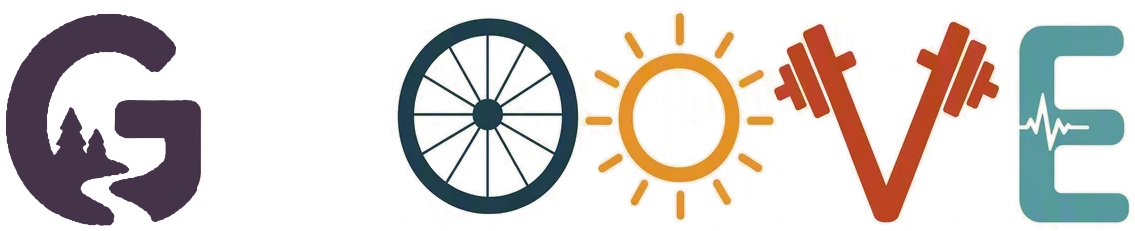
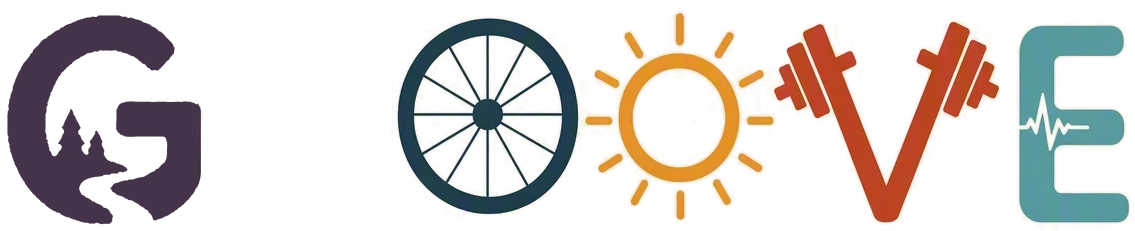
Thinner, crisper G; smooth shoulder on the running man (no bumps by the neck)
Claude-Session: https://claude.ai/code/session_01W6PERwBvGY6kxnwqFJiESo

diff --git a/scripts/crisp-logo-g.py b/scripts/crisp-logo-g.py
@@ -2,7 +2,7 @@
 wordmark-still.png). The original G had soft, fuzzy edges next to the crisp
 sun, wheel and V. The G is one flat color, so its edge is rebuilt: the
 edge is upscaled, smoothed, snapped hard, and averaged back down, which gives a clean
-one-pixel anti-aliased outline. Safe to run more than once. Needs pillow, numpy and
+one-pixel anti-aliased outline. Run it on the original artwork (git history has it), not on an already processed file. Needs pillow, numpy and
 scipy. Run from the repo root, then run scripts/make-dark-logo.py:
     python3 scripts/crisp-logo-g.py
 """
@@ -12,23 +12,31 @@ from scipy import ndimage
 
 G_COLOR = np.array([68, 51, 73], dtype=float)
 G_RIGHT = 197     # the G touches the wheel at x~200; leave the last few columns alone
+CONTEXT = 8       # extra columns read (not changed) so the edge there stays continuous
 UP = 4
+THIN = 1.6        # shave this many pixels off the G's stroke (everywhere), so it reads as crisp as the other letters
 
 def crisp(path):
+    """Run on the ORIGINAL artwork (not on an already processed file)."""
     im = Image.open(path).convert('RGBA')
     a = np.array(im).astype(float)
-    region = a[:, :G_RIGHT]
+    cols = G_RIGHT + CONTEXT
+    region = a[:, :cols]
     alpha = Image.fromarray(region[..., 3].astype(np.uint8))
     big = np.array(alpha.resize((alpha.width * UP, alpha.height * UP), Image.BICUBIC)).astype(float) / 255.0
     big = ndimage.gaussian_filter(big, 3.0)                              # smooth the noisy outline first
-    snapped = np.clip((big - 0.5) * 7 + 0.5, 0, 1)                      # then a hard, clean edge
-    small = np.array(Image.fromarray((snapped * 255).astype(np.uint8)).resize(alpha.size, Image.BOX)).astype(float)
+    solid = big > 0.5
+    # shave the stroke: erode by THIN pixels (in original pixel units), then re-smooth for a clean edge
+    dist = ndimage.distance_transform_edt(np.pad(solid, 1, constant_values=True))[1:-1, 1:-1]
+    shaved = np.clip((dist - THIN * UP) / 1.5 + 0.5, 0, 1)
+    shaved = np.where(solid, shaved, 0)
+    small = np.array(Image.fromarray((shaved * 255).astype(np.uint8)).resize(alpha.size, Image.BOX)).astype(float)
     out = a.copy()
-    out[:, :G_RIGHT, 3] = small
-    covered = small > 0
-    out[:, :G_RIGHT, :3] = np.where(covered[..., None], G_COLOR, region[..., :3])   # flat color, no fringe
+    out[:, :G_RIGHT, 3] = small[:, :G_RIGHT]
+    covered = small[:, :G_RIGHT] > 0
+    out[:, :G_RIGHT, :3] = np.where(covered[..., None], G_COLOR, region[:, :G_RIGHT, :3])   # flat color, no fringe
     Image.fromarray(out.astype(np.uint8), 'RGBA').save(path, optimize=True)
-    print('sharpened G in', path)
+    print('sharpened and thinned G in', path)
 
 for name in ('wordmark.png', 'wordmark-still.png'):
     crisp('public/' + name)

diff --git a/scripts/make-runner-sprites.py b/scripts/make-runner-sprites.py
@@ -23,7 +23,8 @@ COLORS = {'': (96, 106, 66), '-dark': (150, 255, 90)}
 HIP = (82, 140)
 HEAD = (119.55, 28.85, 22)
 TORSO = [(100.5, 71.5), (74.9, 135.8)]; TORSO_W = 37.5
-SHOULDER = [(86.0, 62.1), (107.5, 62.4)]; SHOULDER_W = 18.4   # only the part across the torso; the arms draw the rest
+# One smooth shoulder/neck shape that stays inside the body, so the rounded arm joints never poke out as bumps.
+SHOULDERS = [(80, 68), (86, 57), (100, 52.5), (115, 55), (124, 63), (123, 76), (100, 86), (82, 82)]
 ARM_B = [(87.5, 65.5), (50.0, 68.5), (34.5, 90.1)]; ARM_B_W = 18.5   # shoulder, elbow, hand
 ARM_F = [(114.0, 69.0), (139.5, 110.25), (163.6, 87.0)]; ARM_F_W = 20.5
 LEG_B = [(48.5, 177.7), (16.9, 211.6)]; LEG_B_W = 24.4        # knee, ankle
@@ -82,7 +83,7 @@ def frame(color, t):
         for a, b in zip(P, P[1:]): d.line([a, b], fill=color, width=int(w * SS))
         for x, y in P: d.ellipse([x - r, y - r, x + r, y + r], fill=color)
     cx, cy = tf(HEAD[:2]); r = HEAD[2] * SS; d.ellipse([cx - r, cy - r, cx + r, cy + r], fill=color)
-    line(TORSO, TORSO_W); line(SHOULDER, SHOULDER_W)
+    line(TORSO, TORSO_W); d.polygon([tf(p) for p in SHOULDERS], fill=color)
     # arms (back arm half a cycle behind the front arm)
     elbow, hand = arm_pose(ARM_B[0], 37.6, 26.6, t, 0.5); line([ARM_B[0], elbow, hand], ARM_B_W)
     elbow, hand = arm_pose(ARM_F[0], 48.5, 33.5, t, 0.0); line([ARM_F[0], elbow, hand], ARM_F_W)

diff --git a/CLAUDE.md b/CLAUDE.md
@@ -69,7 +69,7 @@ A movement-coaching web app run by Greg (gpspicer2), an exercise-science profess
 - Auto-scroll: panels that open below the fold (Delete Account confirm, Account/Birdseye dropdowns, goal rows, Move history) use `lib/reveal.js` (`useRevealOnOpen`, `revealSoon`) to scroll themselves into view. Use it for any new expandable panel.
 - Sign-up screen uses teal (`SKY`) instead of plum so it never looks like sign-in (Greg asked; an exception to the "onboarding is plum" rule).
 - First visit on a phone opens on Sign up; once anyone has signed in there (`groove:returning` in localStorage) it opens on Sign in.
-- Dark mode: Account > Settings > Appearance (Auto follows the phone / Light / Dark; saved per device in localStorage `groove:theme`, applied before first paint from index.html; `src/appearance.js`). Theme tokens in `src/theme.js` are CSS variables defined in `index.css` (light and two dark blocks: system dark and forced dark; keep them identical). Never append hex digits to a token (use `color-mix`) and never hard-code hex colors. Import icons from `src/lib/icons.jsx` (not `lucide-react` directly) so `color`/`fill` props work with the variables. The logo uses neon dark versions (`wordmark-dark.png`, `wordmark-still-dark.png`, `wordmark-runner-dark.png`) generated by `scripts/make-dark-logo.py` (needs pillow, numpy, scipy); re-run it whenever the light logo art changes (and `scripts/crisp-logo-g.py` first if the G was replaced: it rebuilds the G's soft edge into a clean one; the dark glow was also toned down so big letters aren't foggy). `Wordmark` picks them with `useDarkMode`.
+- Dark mode: Account > Settings > Appearance (Auto follows the phone / Light / Dark; saved per device in localStorage `groove:theme`, applied before first paint from index.html; `src/appearance.js`). Theme tokens in `src/theme.js` are CSS variables defined in `index.css` (light and two dark blocks: system dark and forced dark; keep them identical). Never append hex digits to a token (use `color-mix`) and never hard-code hex colors. Import icons from `src/lib/icons.jsx` (not `lucide-react` directly) so `color`/`fill` props work with the variables. The logo uses neon dark versions (`wordmark-dark.png`, `wordmark-still-dark.png`, `wordmark-runner-dark.png`) generated by `scripts/make-dark-logo.py` (needs pillow, numpy, scipy); re-run it whenever the light logo art changes (and `scripts/crisp-logo-g.py` first if the G artwork was replaced (run it on the ORIGINAL art): it rebuilds the G's soft edge into a clean one and shaves ~1.6 px off the stroke so it reads as crisp as the other letters; the dark glow was also toned down so big letters aren't foggy). `Wordmark` picks them with `useDarkMode`.
 - Android: `public/manifest.webmanifest` has real 192/512 icons (`icon-android-*.png`, G centered with padding so round masks don't clip it); the viewport meta has `interactive-widget=resizes-content` so the keyboard doesn't cover bottom sheets; `#app-scroll` has `overscroll-behavior-y: contain` to stop pull-to-refresh mid-workout. Not handled: the Android back button doesn't close popups (it leaves the app).
 - Yoga counts toward both aerobic (its minutes) and flexibility (a session day), whichever list it was logged from. Barbell lifts never go below 45 lb (the bar); Log is disabled with a note until the weight is 45+.
 - Membership (Stripe, one flat monthly price): see `docs/PAYMENTS.md`. Serverless `api/billing/*` (checkout, portal, signature-verified webhook) set `profiles.membership_status`; without a membership Birdseye, Move and Journal are blurred behind a Join popup (`LockedTab`; the tour still runs first; Learn and the Movement Library stay open) only when `VITE_REQUIRE_MEMBERSHIP=true`; Greg can comp members from the coach Billing tab. Card data never touches Groove (Stripe-hosted pages). Not yet live-tested against real Stripe (needs Greg's keys).
